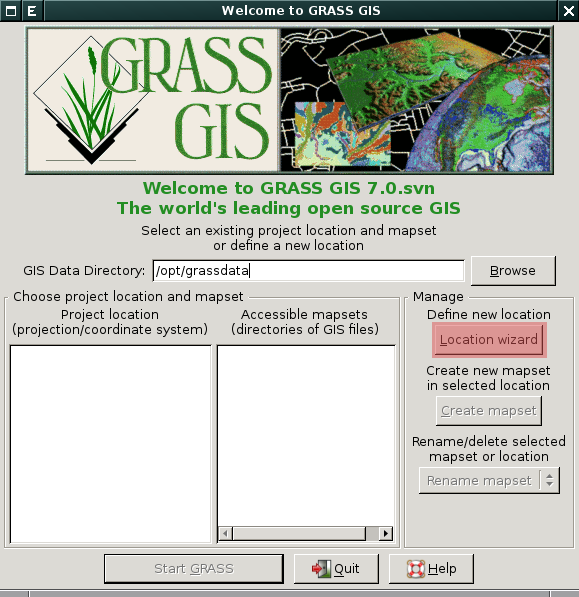
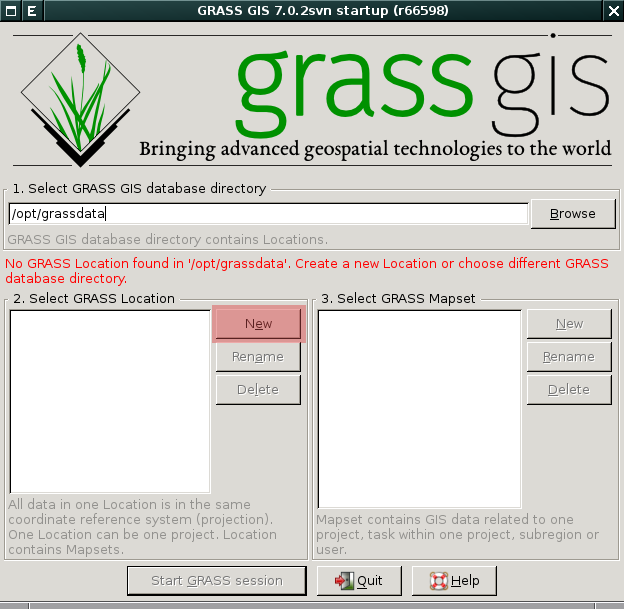
aktualizace exportu a prenosu dat

diff --git a/data/export.rst b/data/export.rst
@@ -1,16 +1,18 @@
 .. index::
    pair: geodata; export
 
-Export do externích formátů
----------------------------
+Export do ostatních GIS formátů
+-------------------------------
 
 Rastrové mapy lze ze systému GRASS exportovat do externích formátů
 pomocí modulu :grasscmd:`r.out.gdal`. Pro export vektorových map
 slouží modul :grasscmd:`v.out.ogr`.
 
-Výše zmíněné moduly používají pro export dat knihovnu
-:wikipedia:`GDAL`, která v režimu zápisu podporuje téměř 200
-rastrových a vektorových formátů.
+.. note::
+   
+   Výše zmíněné moduly používají pro export dat knihovnu
+   :wikipedia:`GDAL`, která v režimu zápisu podporuje téměř 200
+   rastrových a vektorových formátů.
 
 .. index::
    pair: rastrová data; export
@@ -85,7 +87,7 @@ V následujícím dialogu zvolíme název výstupního souboru a jeho formát.
 Export obsahu mapové okna do obrázku
 ====================================
 
-Kromě exportu do GIS formátu je možné uložit i obsah mapové okna do
+Kromě exportu dat do GIS formátů je možné uložit obsah mapové okna do
 obrazového souboru jako je např. PNG. Tato funkce je dostupná z
 nástrojé lišty *mapového okna*.
 
@@ -93,10 +95,10 @@ nástrojé lišty *mapového okna*.
             :class: large
 	    :scale-latex: 70
 
-	    Export obsahu mapového okna do obrázku
+	    Export obsahu mapového okna do obrázku.
 	    
 .. figure:: images/map-display-image-1.png
-            :class: small
+            :width: 200px
 	    :scale-latex: 55
 
             V následující dialogu zvolíme dimenzi výstupního obrázku.
@@ -105,5 +107,5 @@ nástrojé lišty *mapového okna*.
             :class: large
 	    :scale-latex: 80
 
-            Příklad výsledku včetně :ref:`legendy, měřítka a textového
-            popisku <mapove-elementy>`.
+            Příklad výsledku včetně legendy, měřítka a textového
+            popisku (viz kapitola :ref:`mapove-elementy`).

diff --git a/data/prenos-dat.rst b/data/prenos-dat.rst
@@ -12,7 +12,7 @@ mapu do tohoto formátu umožňuje modul :grasscmd:`r.pack`
 (:menuselection:`File --> Export raster map --> Pack raster map`), pro
 vektorová data je k dispozici modul :grasscmd:`v.pack`
 (:menuselection:`File --> Export vector map --> Pack vector
-map`). Rozbalit takto vytvořený soubor (tzv. `pack`) umožňují modulu
+map`). Rozbalit takto vytvořený soubor (tzv. `pack`) umožňují moduly
 :grasscmd:`r.unpack` (:menuselection:`File --> Import raster map -->
 Unpack raster map`) a :grasscmd:`v.unpack` (:menuselection:`File -->
 Import vector map --> Unpack vector map`).
@@ -38,7 +38,10 @@ Import vector map --> Unpack vector map`).
 
    Takto zabalenou rastrovou či vektorovou mapu lze rozbalit pouze v
    lokaci se stejnými souřadnicovým systémem. Pokud tato podmínka není
-   splněna, tak rozbalení skončí chybou, viz obr. níže.
+   splněna, tak rozbalení skončí chybou, viz
+   :num:`obr. #r-unpack-proj-match`.
+
+   .. _r-unpack-proj-match:
 
    .. figure:: images/r-unpack-proj-match.png
       :scale-latex: 45

diff --git a/data/tvorba-lokace.rst b/data/tvorba-lokace.rst
@@ -8,8 +8,8 @@ Vytvoření vlastní lokace
 ------------------------
 
 Novou lokaci lze vytvořit pomocí průvodce, který je dostupný z uvítací
-obrazovky systému GRASS. Spustíme GRASS a v rámci uvítací obrazovky
-vybereme :item:`Location wizard` (průvodce tvorbou lokace).
+obrazovky systému GRASS. Spustíme GRASS a sekci *Select GRASS
+Location* stiskneme tlačítko :item:`New`.
 
 .. figure:: images/wxgui-loc-s-jtsk-0.png
 
